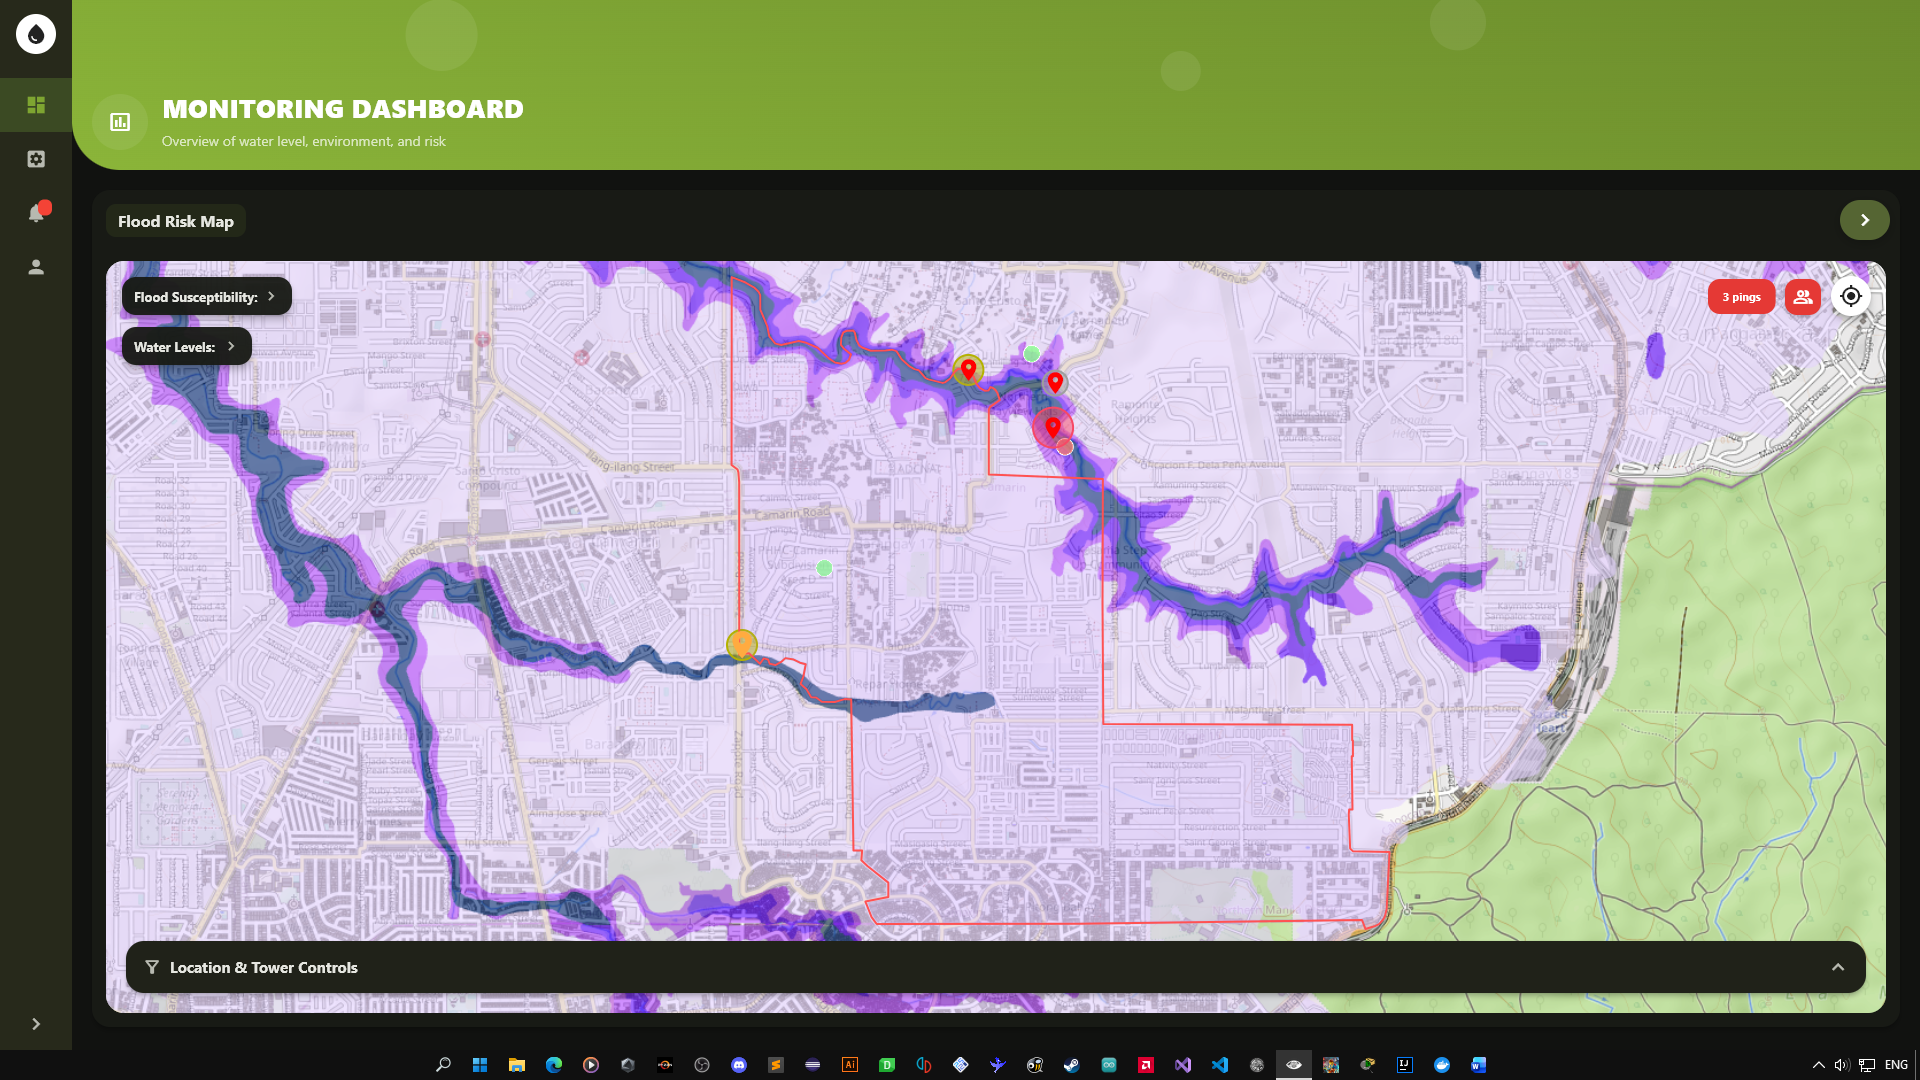
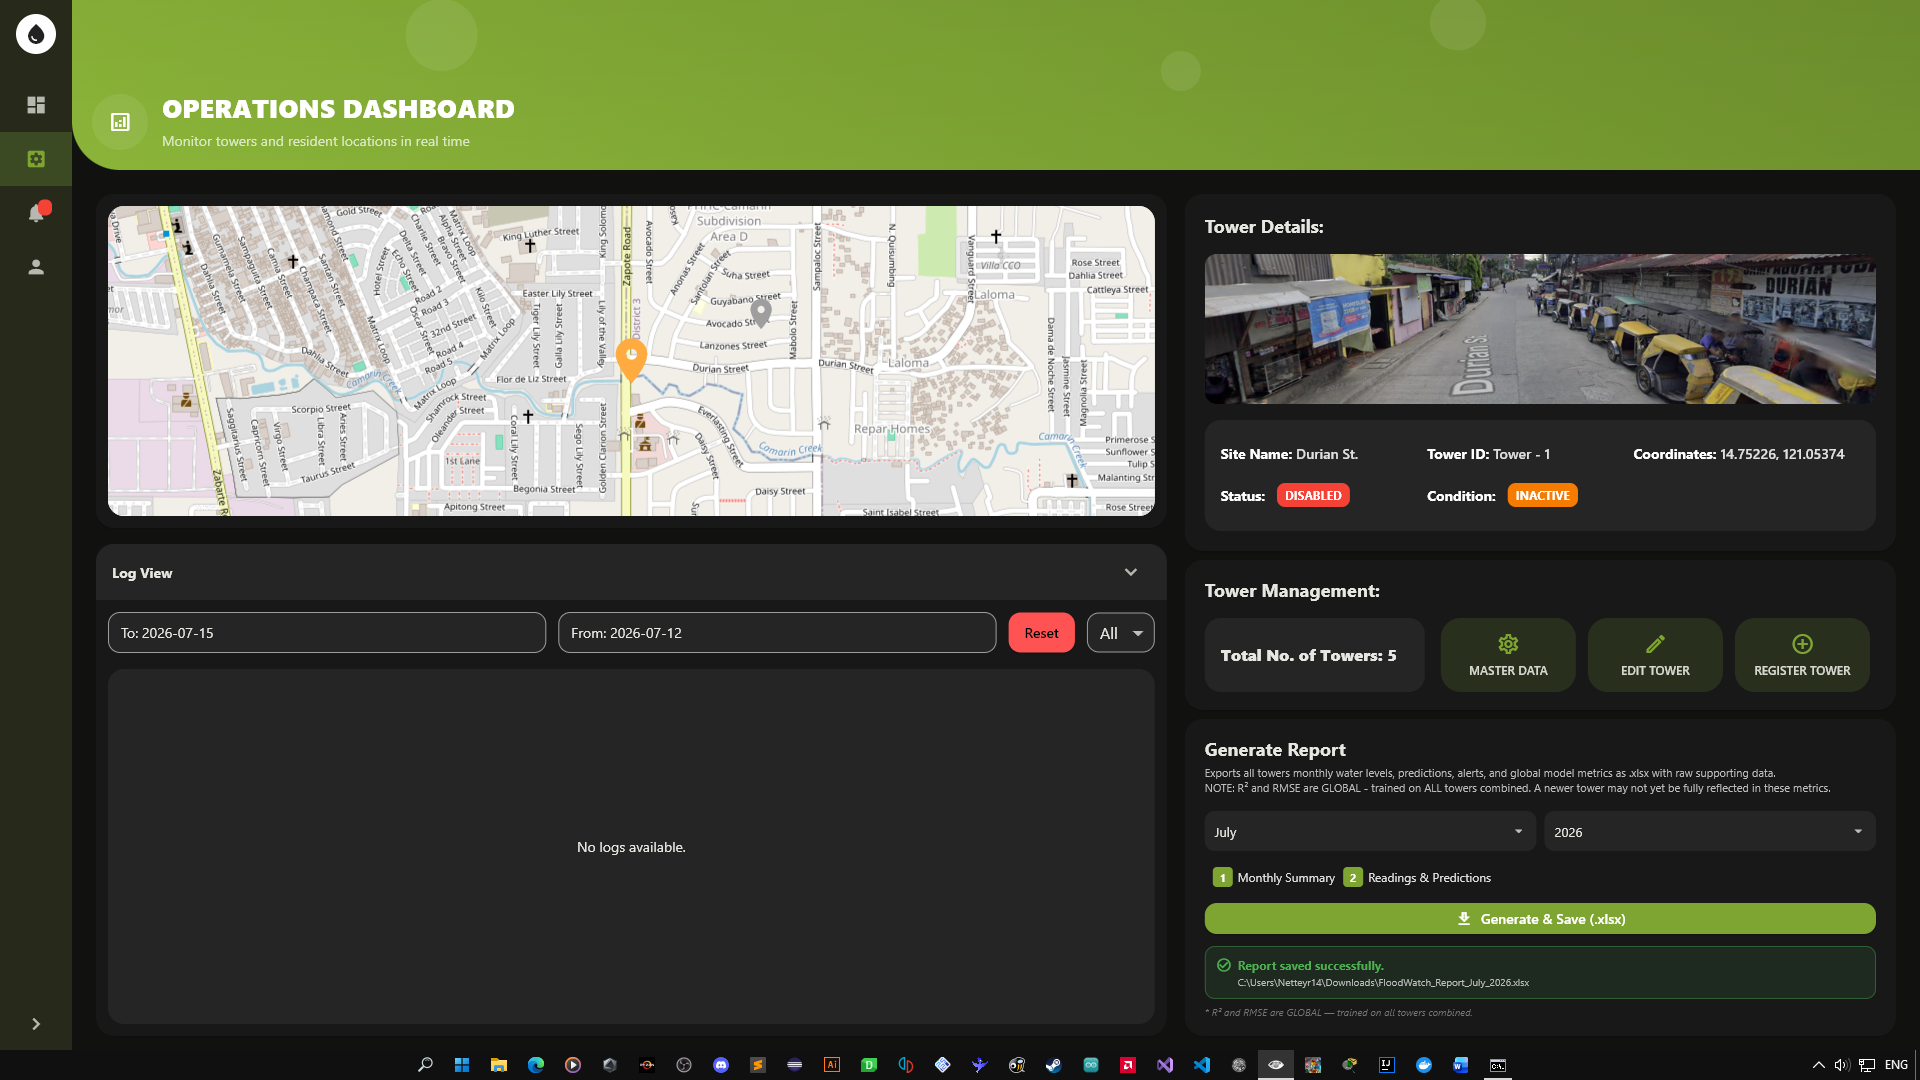
[CLEANING]

diff --git a/README.md b/README.md
@@ -27,13 +27,13 @@ Unlike traditional flood monitoring systems, FloodWatch integrates machine learn
 
 <p align="center"><b>Frontend: Admin Dashboard</b></p>
 <p align="center">
-  <img src="assets/github_ss12.png" width="700"/>
+  <img src="assets/new_admin_login.png" width="700"/>
   <img src="assets/new_admin_monitoring_dashbaord.png" width="700"/>
   <img src="assets/new_admin_monitoring_dashbaord-1.png" width="700"/>
   <img src="assets/new_admin_operations_dashbaord-2.png" width="700"/>
   <img src="assets/new_admin_operations_dashbaord.png" width="700"/>
   <img src="assets/new_admin_operations_dashbaord-1.png" width="700"/>
-  <img src="assets/new_admin_operations_dashbaord-3.png" width="700"/>
+  <img src="assets/new_admin_operations_dashbaord-2.png" width="700"/>
   <img src="assets/new_admin_alerts_dashbaord.png" width="700"/>
   <img src="assets/new_admin_alerts_dashbaord-1.png" width="700"/>
   <img src="assets/new_admin_profile_dashbaord.png" width="700"/>
@@ -41,13 +41,13 @@ Unlike traditional flood monitoring systems, FloodWatch integrates machine learn
 
 <p align="center"><b>Admin Reports: XLSX Output</b></p>
 <p align="center">
-  <img src="assets/reports.png" width="700"/>
-  <img src="assets/reports-1.png" width="700"/>
+  <img src="assets/xlsx_reports.png" width="700"/>
+  <img src="assets/xlsx_reports-1.png" width="700"/>
 </p>
 
 <p align="center"><b>Backend: "floodwatch-backend" Container</b></p>
 <p align="center">
-  <img src="assets/github_ss7.png" width="700"/>
+  <img src="assets/docker_backend.png" width="700"/>
 </p>
 
 <p align="center"><b>Frontend: Mobile App / Web App</b></p>
@@ -61,9 +61,9 @@ Unlike traditional flood monitoring systems, FloodWatch integrates machine learn
 
 <p align="center"><b>3D-Model: Side, Front, Top</b></p>
 <p align="center">
-  <img src="assets/github_ss4.png" width="269" height="268" style="margin-right: 10px;" />
-  <img src="assets/github_ss5.png" width="269" height="200" style="margin-right: 10px;" />
-  <img src="assets/github_ss6.png" width="269" height="200" />
+  <img src="assets/model_front.png" width="269" height="268" style="margin-right: 10px;" />
+  <img src="assets/model_side.png" width="269" height="200" style="margin-right: 10px;" />
+  <img src="assets/model_top.png" width="269" height="200" />
 </p>
 
 ---